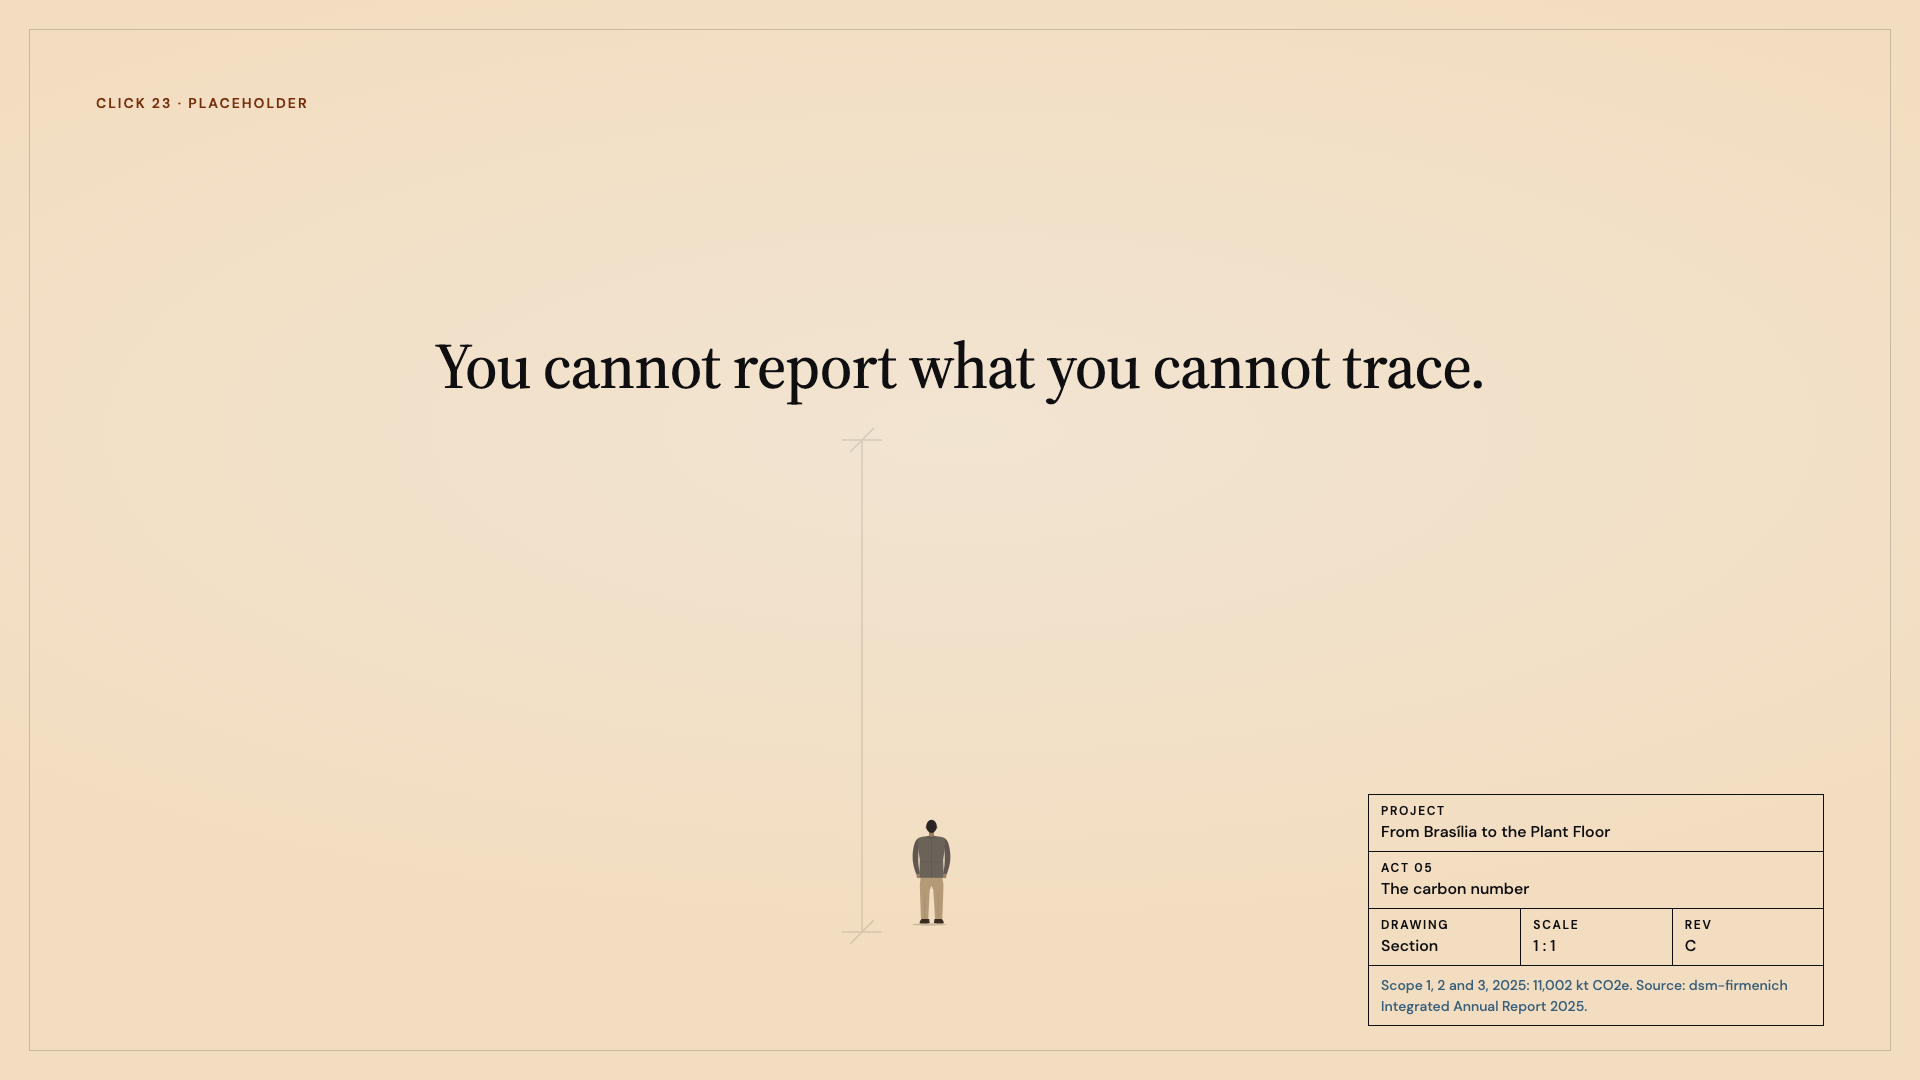
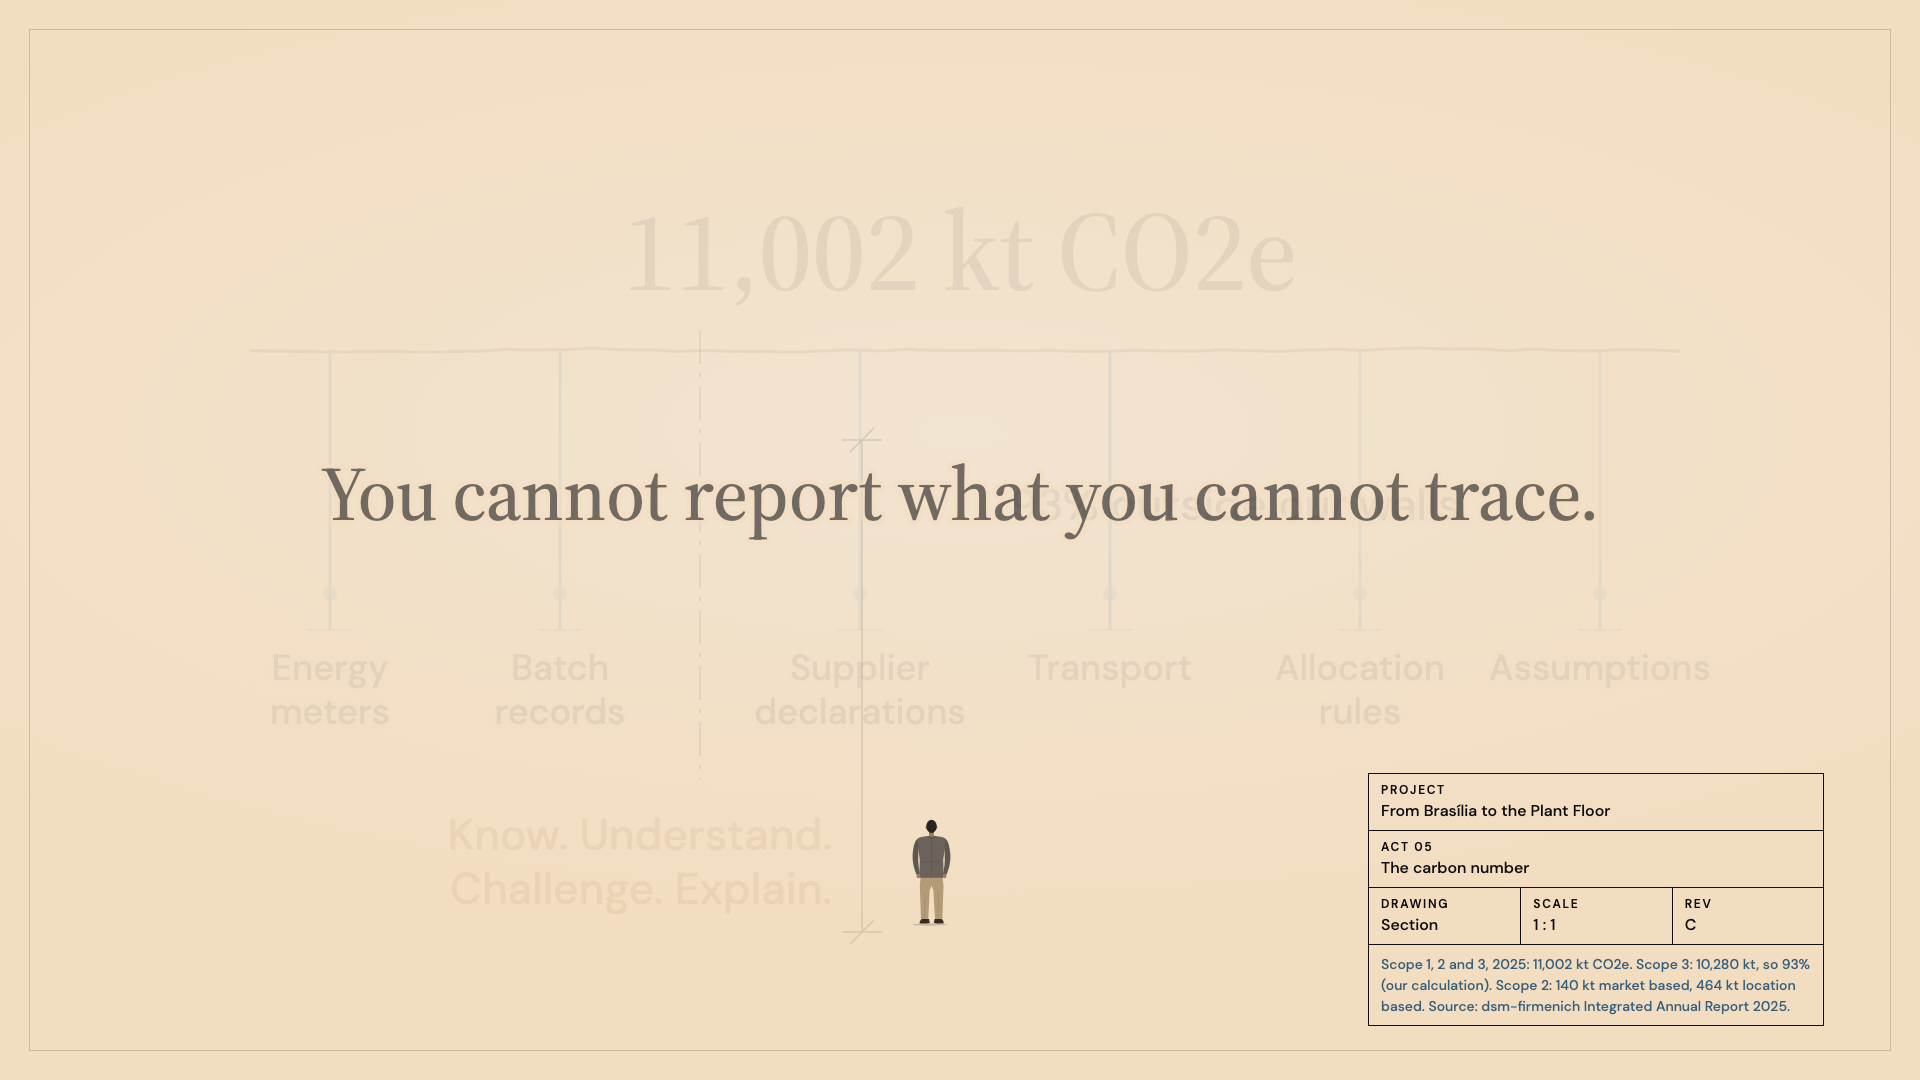
Phase 5: Act 5 (the carbon number) and Act 8 (ground level)
- Act 5: verified figures, revision cloud Chemistry to Data product, roof on six piles,
  dash dot property line (93% outside), Scope 2 split, owners on every line,
  protected silence on a quiet sheet
- Act 8: copper plant and dashed blue twin, feeds, AI as margin notes, three warm points,
  faltering feeds and split Yield, night shift: twin drawn solid clause by clause,
  Accountable and 1 : 1 return, fade to the figure, Humans do. Always.
- labels get a paper halo where they cross linework

diff --git a/src/acts/act5.ts b/src/acts/act5.ts
@@ -1,0 +1,135 @@
+// Act 5. The carbon number. Real public figures, verified in notes/sources.md.
+
+import { hand, exact } from "../draw/hand";
+import { label, setTitleBlock, svg, type Sheet } from "../sheet";
+import { gsap, t, clearPrevious, drawIn, fadeIn, wipe, GHOST_X, type Build } from "./common";
+
+const SOURCE = "Scope 1, 2 and 3, 2025: 11,002 kt CO2e. Scope 3: 10,280 kt, so 93% (our calculation). Scope 2: 140 kt market based, 464 kt location based. Source: dsm-firmenich Integrated Annual Report 2025.";
+
+// The structure under the number: a roof on six piles. The property line separates our walls from everything outside.
+const ROOF_Y = 350, PILE_BOTTOM = 630, WALL_X = 700;
+const PILES: { x: number; name: string[]; inside: boolean }[] = [
+  { x: 330, name: ["Energy", "meters"], inside: true },
+  { x: 560, name: ["Batch", "records"], inside: true },
+  { x: 860, name: ["Supplier", "declarations"], inside: false },
+  { x: 1110, name: ["Transport"], inside: false },
+  { x: 1360, name: ["Allocation", "rules"], inside: false },
+  { x: 1600, name: ["Assumptions"], inside: false },
+];
+
+// Click 19. "A carbon number looks like chemistry. It is not. It is a data product."
+const number: Build = (s, beat) => {
+  const tl = gsap.timeline();
+  clearPrevious(s, tl, 0);
+  tl.call(() => setTitleBlock(s, beat, SOURCE), [], 0.3);
+  const num = t(label(s.draw, 960, 290, "11,002 kt CO2e", { family: "serif", size: 112, anchor: "middle", weight: 500 }));
+  num.classList.add("number");
+  fadeIn(tl, num, 0.4, 1.4);
+
+  const chem = t(label(s.draw, 1400, 400, "Chemistry", { size: 44, anchor: "middle" }));
+  chem.classList.add("chem");
+  fadeIn(tl, chem, 1.4, 0.8);
+  // On "It is not": a copper revision cloud circles the label, and it changes.
+  const cloud = t(svg("path", { class: "cloud", d: revisionCloud(1400, 385, 170, 44), fill: "none", stroke: "var(--copper)", "stroke-width": 2.2, "stroke-linecap": "round" }, s.draw));
+  gsap.set(cloud, { drawSVG: "0%" });
+  drawIn(tl, cloud, 3, 1.4);
+  const dp = t(label(s.draw, 1400, 400, "Data product", { size: 44, anchor: "middle" }));
+  dp.classList.add("dp");
+  gsap.set(dp, { opacity: 0 });
+  tl.to(chem, { opacity: 0, duration: 0.5 }, 4.4).to(dp, { opacity: 1, duration: 0.6 }, 4.7);
+  return tl;
+};
+
+/** A revision cloud: a chain of small arcs around an ellipse, as on a marked up drawing. */
+function revisionCloud(cx: number, cy: number, rx: number, ry: number, n = 16) {
+  let d = "";
+  for (let i = 0; i <= n; i++) {
+    const a = (i / n) * Math.PI * 2, x = cx + rx * Math.cos(a), y = cy + ry * Math.sin(a);
+    if (i === 0) d = `M${x.toFixed(1)} ${y.toFixed(1)}`;
+    else d += `A${(rx * 0.24).toFixed(1)} ${(rx * 0.24).toFixed(1)} 0 0 1 ${x.toFixed(1)} ${y.toFixed(1)}`;
+  }
+  return d;
+}
+
+// Click 20. "Behind one apparently simple number…" The number becomes a roof on piles; the property line cuts through.
+const piles: Build = (s) => {
+  const tl = gsap.timeline();
+  const gone = s.draw.querySelectorAll(".dp, .chem, .cloud");
+  tl.to(gone, { opacity: 0, duration: 0.6, onComplete: () => gone.forEach((e) => e.remove()) }, 0);
+  const g = t(svg("g", { class: "structure" }, s.draw));
+  const roof = svg("path", { d: hand([[250, ROOF_Y], [1680, ROOF_Y]], "a5-roof", 1), stroke: "var(--copper)", "stroke-width": 3, fill: "none" }, g);
+  gsap.set(roof, { drawSVG: "0%" });
+  drawIn(tl, roof, 0.4, 1.4);
+  PILES.forEach((p, i) => {
+    // Outside our walls, each source draws its line its own way: the definitions don't match.
+    const style: Record<string, number> = p.inside ? { "stroke-width": 2.2 } : [{ "stroke-width": 1.4 }, { "stroke-width": 3 }, { "stroke-width": 2, opacity: 0.7 }, { "stroke-width": 1.2 }][i - 2];
+    const pile = svg("path", { class: "pile", d: exact([[p.x, ROOF_Y], [p.x, PILE_BOTTOM]]), stroke: "var(--blueprint)", fill: "none", ...style }, g);
+    const foot = svg("path", { d: exact([[p.x - 22, PILE_BOTTOM], [p.x + 22, PILE_BOTTOM]]), stroke: "var(--blueprint)", "stroke-width": 2, fill: "none" }, g);
+    gsap.set([pile, foot], { drawSVG: "0%" });
+    drawIn(tl, [pile, foot], 1.4 + i * 0.25, 0.9);
+    const lab = svg("g", { class: "pile-label", opacity: 0 }, g);
+    p.name.forEach((w, k) => label(lab, p.x, PILE_BOTTOM + 50 + k * 44, w, { size: 36, anchor: "middle", halo: true }));
+    fadeIn(tl, lab, 1.8 + i * 0.25, 0.6);
+  });
+  // The property line: dash dot, revealed with a wipe (DrawSVG can't reveal a dashed line)
+  const wall = t(svg("path", { class: "wall", d: exact([[WALL_X, 330], [WALL_X, 780]]), stroke: "var(--ink)", "stroke-width": 2, "stroke-dasharray": "34 9 4 9", fill: "none" }, s.draw)) as SVGPathElement;
+  const w = wipe(s, wall, { x: WALL_X - 10, y: 330, w: 20, h: 450 }, "bottom");
+  tl.to(w.rect, { ...w.to, duration: 1.6, ease: "power1.inOut" }, 3.4);
+  const out = t(label(s.draw, 1235, 520, "93% outside our walls", { size: 44, anchor: "middle", halo: true }));
+  out.classList.add("outside");
+  fadeIn(tl, out, 4.8, 0.8);
+  return tl;
+};
+
+// Click 21. "The challenge is being able to explain that number." Scope 2 splits in two.
+const scope2: Build = (s) => {
+  const tl = gsap.timeline();
+  tl.to(s.draw.querySelectorAll(".structure, .wall, .number"), { opacity: 0.1, duration: 0.8 }, 0)
+    .to(s.draw.querySelectorAll(".outside"), { opacity: 0, duration: 0.5 }, 0);
+  const g = t(svg("g", { class: "scope2" }, s.draw));
+  // The energy meters pile splits in two: one copper, one blue.
+  const x = PILES[0].x;
+  const a = svg("path", { d: hand([[x, ROOF_Y], [x - 40, PILE_BOTTOM]], "a5-mb", 0.8), stroke: "var(--copper)", "stroke-width": 2.6, fill: "none" }, g);
+  const b = svg("path", { d: exact([[x, ROOF_Y], [x + 40, PILE_BOTTOM]]), stroke: "var(--blueprint)", "stroke-width": 2.6, fill: "none" }, g);
+  gsap.set([a, b], { drawSVG: "0%" });
+  drawIn(tl, [a, b], 0.6, 1.2);
+  const l1 = label(g, 960, 470, "140 kt market based", { size: 52, anchor: "middle", fill: "var(--copper)", halo: true });
+  const l2 = label(g, 960, 548, "464 kt location based", { size: 52, anchor: "middle", fill: "var(--blue-text)", halo: true });
+  const l3 = label(g, 960, 650, "Same electricity. Two correct answers.", { family: "serif", size: 52, anchor: "middle", halo: true });
+  gsap.set([l1, l2, l3], { opacity: 0 });
+  fadeIn(tl, [l1, l2], 1.4, 0.8, 0.5);
+  fadeIn(tl, l3, 3, 1);
+  return tl;
+};
+
+// Click 22. "Someone has to know which source is right." The callouts return, rewritten. Lineage turns solid blue, each line with an owner.
+const owners: Build = (s) => {
+  const tl = gsap.timeline();
+  tl.to(s.draw.querySelectorAll(".scope2"), { opacity: 0, duration: 0.6 }, 0)
+    .to(s.draw.querySelectorAll(".structure, .number, .wall, .outside"), { opacity: 1, duration: 0.8 }, 0.3);
+  const g = t(svg("g", { class: "owners" }, s.draw));
+  PILES.forEach((p, i) => {
+    const line = svg("path", { d: exact([[p.x, ROOF_Y], [p.x, PILE_BOTTOM]]), stroke: "var(--blueprint)", "stroke-width": 3, fill: "none" }, g);
+    const tick = svg("circle", { cx: p.x, cy: PILE_BOTTOM - 36, r: 7, fill: "var(--blueprint)" }, g);   // an owner on every line
+    gsap.set(line, { drawSVG: "0%" }); gsap.set(tick, { opacity: 0 });
+    drawIn(tl, line, 0.6 + i * 0.12, 0.9);
+    tl.to(tick, { opacity: 1, duration: 0.3 }, 1.3 + i * 0.12);
+  });
+  const c = t(svg("g", { class: "callouts", opacity: 0 }, s.draw));
+  label(c, GHOST_X - 30, 850, "Know. Understand.", { size: 44, anchor: "end", fill: "var(--copper)" });
+  label(c, GHOST_X - 30, 904, "Challenge. Explain.", { size: 44, anchor: "end", fill: "var(--copper)" });
+  fadeIn(tl, c, 1.8, 0.8);
+  return tl;
+};
+
+// Click 23. "You cannot report what you cannot trace." Everything quietens. One line. Protected silence.
+const trace: Build = (s: Sheet) => {
+  const tl = gsap.timeline();
+  tl.to(s.draw.querySelectorAll(":scope > .t:not(.scope2)"), { opacity: 0.06, duration: 1.4, ease: "sine.inOut" }, 0)
+    .to(s.draw.querySelectorAll(".scope2"), { opacity: 0, duration: 0.8 }, 0);
+  const line = t(label(s.draw, 960, 520, "You cannot report what you cannot trace.", { family: "serif", size: 76, anchor: "middle", halo: true }));
+  fadeIn(tl, line, 1.2, 1.4);
+  return tl;
+};
+
+export const ACT5: Record<number, Build> = { 19: number, 20: piles, 21: scope2, 22: owners, 23: trace };

diff --git a/src/acts/act8.ts b/src/acts/act8.ts
@@ -1,0 +1,143 @@
+// Act 8. Back at ground level. In architectural drawings a dashed line means not yet built.
+// The twin starts dashed and becomes solid only when people trust it.
+
+import { hand, exact, type Pt } from "../draw/hand";
+import { label, setTitleBlock, svg, type Sheet } from "../sheet";
+import { gsap, t, clearPrevious, drawIn, fadeIn, wipe, FIG, GHOST_X, type Build } from "./common";
+
+const TOP = 250, BASE = FIG.ground;
+const PLANT = { x: 560, w: 120 };
+const TWIN = { x: 1240, w: 120 };
+const FEEDS = ["Sensors", "Equipment", "Lab results", "Maintenance", "Energy"];
+const feedY = (i: number) => 320 + i * 84;
+
+/** A process column in elevation: shell, head, skirt and trays. */
+function column(x: number, w: number): Pt[][] {
+  const r = w / 2, cx = x + r;
+  const shell: Pt[] = [[x, BASE - 60], [x, TOP + 40], [cx - r * 0.7, TOP + 8], [cx, TOP], [cx + r * 0.7, TOP + 8], [x + w, TOP + 40], [x + w, BASE - 60]];
+  const skirt: Pt[] = [[x + 14, BASE - 60], [x + 8, BASE], [x + w - 8, BASE], [x + w - 14, BASE - 60]];
+  const trays: Pt[][] = Array.from({ length: 9 }, (_, i) => [[x, TOP + 90 + i * 64], [x + w, TOP + 90 + i * 64]]);
+  return [shell, skirt, ...trays];
+}
+
+// Click 33. "Take digital twins…" The real plant in copper, its twin dashed in blue, feeds between. Then nothing moves.
+const twins: Build = (s, beat) => {
+  const tl = gsap.timeline();
+  clearPrevious(s, tl, 0);
+  tl.call(() => setTitleBlock(s, beat), [], 0.3);
+  const plant = t(svg("g", { class: "plant" }, s.draw));
+  column(PLANT.x, PLANT.w).forEach((pts, i) => {
+    const p = svg("path", { d: hand(pts, "plant" + i, 0.9), stroke: "var(--copper)", "stroke-width": i < 2 ? 2.6 : 1.4, fill: "none" }, plant);
+    gsap.set(p, { drawSVG: "0%" });
+    drawIn(tl, p, 0.5 + (i < 2 ? 0 : 1.2 + i * 0.08), i < 2 ? 1.8 : 0.5);
+  });
+  // The twin is dashed: revealed with a wipe, top to bottom it stands "not yet built"
+  const twin = t(svg("g", { class: "twin" }, s.draw)) as SVGGElement;
+  column(TWIN.x, TWIN.w).forEach((pts, i) => svg("path", { d: exact(pts), stroke: "var(--blueprint)", "stroke-width": i < 2 ? 2.4 : 1.3, fill: "none", "stroke-dasharray": "12 8" }, twin));
+  const w = wipe(s, twin, { x: TWIN.x - 10, y: TOP - 10, w: TWIN.w + 20, h: BASE - TOP + 20 }, "bottom");
+  tl.to(w.rect, { ...w.to, duration: 2.4, ease: "power1.inOut" }, 1.8);
+
+  const feeds = t(svg("g", { class: "feeds" }, s.draw));
+  FEEDS.forEach((name, i) => {
+    const y = feedY(i);
+    const ln = svg("path", { class: `feed feed-${i}`, d: exact([[PLANT.x + PLANT.w, y], [TWIN.x, y]]), stroke: "var(--blueprint)", "stroke-width": 1.8, fill: "none" }, feeds);
+    gsap.set(ln, { drawSVG: "0%" });
+    drawIn(tl, ln, 4 + i * 0.25, 1);
+    const lab = label(feeds, 960, y - 14, name, { size: 40, anchor: "middle", halo: true });
+    lab.classList.add(`feed-label-${i}`);
+    gsap.set(lab, { opacity: 0 });
+    tl.to(lab, { opacity: 1, duration: 0.5 }, 4.4 + i * 0.25);
+  });
+  // "…whether anyone believes it." Then the engine holds: nothing moves.
+  return tl;
+};
+
+// Click 34. AI speaks only as margin notes, in another hand. Three warm points on the real plant.
+const notes: Build = (s) => {
+  const tl = gsap.timeline();
+  const m = t(svg("g", { class: "margin", opacity: 0 }, s.draw));
+  label(m, TWIN.x + TWIN.w + 40, 420, "pattern found", { family: "serif", italic: true, size: 44, fill: "var(--blue-text)" });
+  label(m, TWIN.x + TWIN.w + 40, 500, "behaviour predicted", { family: "serif", italic: true, size: 44, fill: "var(--blue-text)" });
+  fadeIn(tl, m, 0.3, 1);
+  const warm = t(svg("g", { class: "warm" }, s.draw));
+  [["Energy", 430], ["Material loss", 600], ["Emissions", 770]].forEach(([name, y], i) => {
+    const glow = svg("circle", { cx: PLANT.x + PLANT.w / 2, cy: y as number, r: 16, fill: "var(--copper-light)", opacity: 0 }, warm);
+    const dot = svg("circle", { cx: PLANT.x + PLANT.w / 2, cy: y as number, r: 5, fill: "var(--copper)", opacity: 0 }, warm);
+    const lab = label(warm, PLANT.x - 30, (y as number) + 14, name as string, { size: 40, anchor: "end" });
+    gsap.set(lab, { opacity: 0 });
+    tl.to(glow, { opacity: 0.55, duration: 0.8 }, 1.6 + i * 0.5)
+      .to(dot, { opacity: 1, duration: 0.4 }, 1.6 + i * 0.5)
+      .to(lab, { opacity: 1, duration: 0.6 }, 1.8 + i * 0.5);
+  });
+  return tl;
+};
+
+// Click 35. "If the equipment data is incomplete…" One feed breaks, Yield splits, energy lands on the wrong node. The twin stays dashed.
+const falter: Build = (s) => {
+  const tl = gsap.timeline();
+  tl.to(s.draw.querySelectorAll(".margin"), { opacity: 0.35, duration: 0.6 }, 0);
+  const eq = s.draw.querySelector(".feed-1");
+  if (eq) tl.to(eq, { drawSVG: "0% 48%", duration: 1, ease: "power2.in" }, 0.3);          // breaks halfway
+  const en = s.draw.querySelector(".feed-4");
+  if (en) tl.to(en, { attr: { d: exact([[PLANT.x + PLANT.w, feedY(4)], [TWIN.x, feedY(4) - 140]]) }, duration: 1.2, ease: "power2.inOut" }, 1);
+  const y = t(svg("g", { class: "yield" }, s.draw));
+  const a = label(y, PLANT.x + PLANT.w / 2, TOP - 40, "Yield", { size: 44, anchor: "middle", fill: "var(--copper)" });
+  const b = label(y, TWIN.x + TWIN.w / 2, TOP - 40, "Yield", { size: 44, anchor: "middle", fill: "var(--blue-text)" });
+  gsap.set([a, b], { opacity: 0 });
+  fadeIn(tl, [a, b], 1.8, 0.8, 0.3);
+  return tl;
+};
+
+// Click 36. "…when the operator on the night shift trusts what it tells them…" Trust resolves the twin.
+const trust: Build = (s: Sheet) => {
+  const tl = gsap.timeline();
+  const dusk = t(svg("rect", { class: "dusk", x: 0, y: 0, width: 1920, height: 1080, fill: "var(--ink)", opacity: 0, "pointer-events": "none" }, s.draw));
+  s.draw.insertBefore(dusk, s.draw.firstChild);
+  tl.to(dusk, { opacity: 0.06, duration: 2.5, ease: "sine.inOut" }, 0);
+  const night = t(label(s.draw, FIG.x, 796, "Night shift, 03:10.", { size: 40, anchor: "middle" }));
+  fadeIn(tl, night, 0.8, 0.8);
+  // Clause by clause, the dashed twin is drawn solid
+  const solid = t(svg("g", { class: "twin-solid" }, s.draw));
+  const parts = column(TWIN.x, TWIN.w).map((pts, i) => {
+    const p = svg("path", { d: exact(pts), stroke: "var(--blueprint)", "stroke-width": i < 2 ? 2.6 : 1.4, fill: "none" }, solid);
+    gsap.set(p, { drawSVG: "0%" });
+    return p;
+  });
+  drawIn(tl, parts.slice(0, 2), 1.4, 2.2);
+  drawIn(tl, parts.slice(2), 2.6, 0.5, 0.15);
+  tl.to(s.draw.querySelectorAll(".twin"), { opacity: 0, duration: 1.2 }, 3.6);
+  // The broken feed mends, the energy line finds its node, Yield becomes one
+  const eq = s.draw.querySelector(".feed-1");
+  if (eq) tl.to(eq, { drawSVG: "0% 100%", duration: 1 }, 2.4);
+  const en = s.draw.querySelector(".feed-4");
+  if (en) tl.to(en, { attr: { d: exact([[PLANT.x + PLANT.w, feedY(4)], [TWIN.x, feedY(4)]]) }, duration: 1 }, 2.8);
+  const ys = s.draw.querySelectorAll(".yield text");
+  if (ys.length === 2) {
+    tl.to(ys, { attr: { x: 960 }, duration: 1.4, ease: "power2.inOut" }, 3.6)
+      .to(ys[0], { opacity: 0, duration: 0.6 }, 4.6)
+      .to(ys[1], { fill: "var(--ink)", duration: 0.6 }, 4.6);
+  }
+  const acc = t(label(s.draw, FIG.x, 748, "Accountable", { size: 40, anchor: "middle", fill: "var(--copper)" }));
+  const one = t(label(s.draw, GHOST_X - 20, 905, "1 : 1", { size: 44, anchor: "end" }));
+  fadeIn(tl, acc, 5.4, 0.8);
+  fadeIn(tl, one, 6.6, 0.8);
+  return tl;
+};
+
+// Click 37. "Agents do not own risk." Everything fades except the figure.
+const fade: Build = (s) => {
+  const tl = gsap.timeline();
+  tl.to(s.draw.querySelectorAll(":scope > .t"), { opacity: 0, duration: 1.8, ease: "sine.inOut" }, 0);
+  return tl;
+};
+
+// Click 38. "Humans do. Always." Three words in serif. Protected silence, five seconds.
+const humans: Build = (s) => {
+  const tl = gsap.timeline();
+  s.draw.querySelectorAll(":scope > .t").forEach((e) => (e as SVGElement).style.display = "none");
+  const line = t(label(s.draw, 960, 600, "Humans do. Always.", { family: "serif", size: 84, anchor: "middle" }));
+  fadeIn(tl, line, 0, 1);
+  return tl;
+};
+
+export const ACT8: Record<number, Build> = { 33: twins, 34: notes, 35: falter, 36: trust, 37: fade, 38: humans };

diff --git a/src/sheet.ts b/src/sheet.ts
@@ -89,7 +89,7 @@ export function svg<K extends keyof SVGElementTagNameMap>(tag: K, attrs: Record<
   return el;
 }
 
-export interface TextOpts { size?: number; family?: "serif" | "sans"; weight?: number; fill?: string; anchor?: "start" | "middle" | "end"; italic?: boolean; spacing?: number }
+export interface TextOpts { size?: number; family?: "serif" | "sans"; weight?: number; fill?: string; anchor?: "start" | "middle" | "end"; italic?: boolean; spacing?: number; halo?: boolean; rotate?: number }
 
 /** Type on the drawing. Never animated except for opacity. */
 export function label(parent: Element, x: number, y: number, text: string, o: TextOpts = {}) {
@@ -97,6 +97,9 @@ export function label(parent: Element, x: number, y: number, text: string, o: Te
     x, y, "font-family": o.family === "serif" ? "var(--serif)" : "var(--sans)", "font-size": o.size ?? 44,
     "font-weight": o.weight ?? (o.family === "serif" ? 500 : 500), fill: o.fill ?? "var(--ink)", "text-anchor": o.anchor ?? "start",
     "letter-spacing": o.spacing ?? 0, ...(o.italic ? { "font-style": "italic" } : {}),
+    // A paper halo breaks the linework under the words, as a draughtsman breaks a line around its text
+    ...(o.halo ? { stroke: "var(--paper)", "stroke-width": 10, "stroke-linejoin": "round", "paint-order": "stroke" } : {}),
+    ...(o.rotate ? { transform: `rotate(${o.rotate} ${x} ${y})` } : {}),
   }, parent);
   t.textContent = text;
   return t;

diff --git a/src/acts/index.ts b/src/acts/index.ts
@@ -3,6 +3,8 @@
 import { BEATS } from "../beats";
 import { cover, architect } from "./cover";
 import { ACT2 } from "./act2";
+import { ACT5 } from "./act5";
+import { ACT8 } from "./act8";
 import { ACT9 } from "./act9";
 import { gsap, clearPrevious, ghost, type Build } from "./common";
 import { setTitleBlock } from "../sheet";
@@ -43,6 +45,8 @@ const BUILDS: Record<number, Build> = {
   },
   ...ACT2,
   9: placeholderClearingPlans,
+  ...ACT5,
+  ...ACT8,
   ...ACT9,
 };
 
